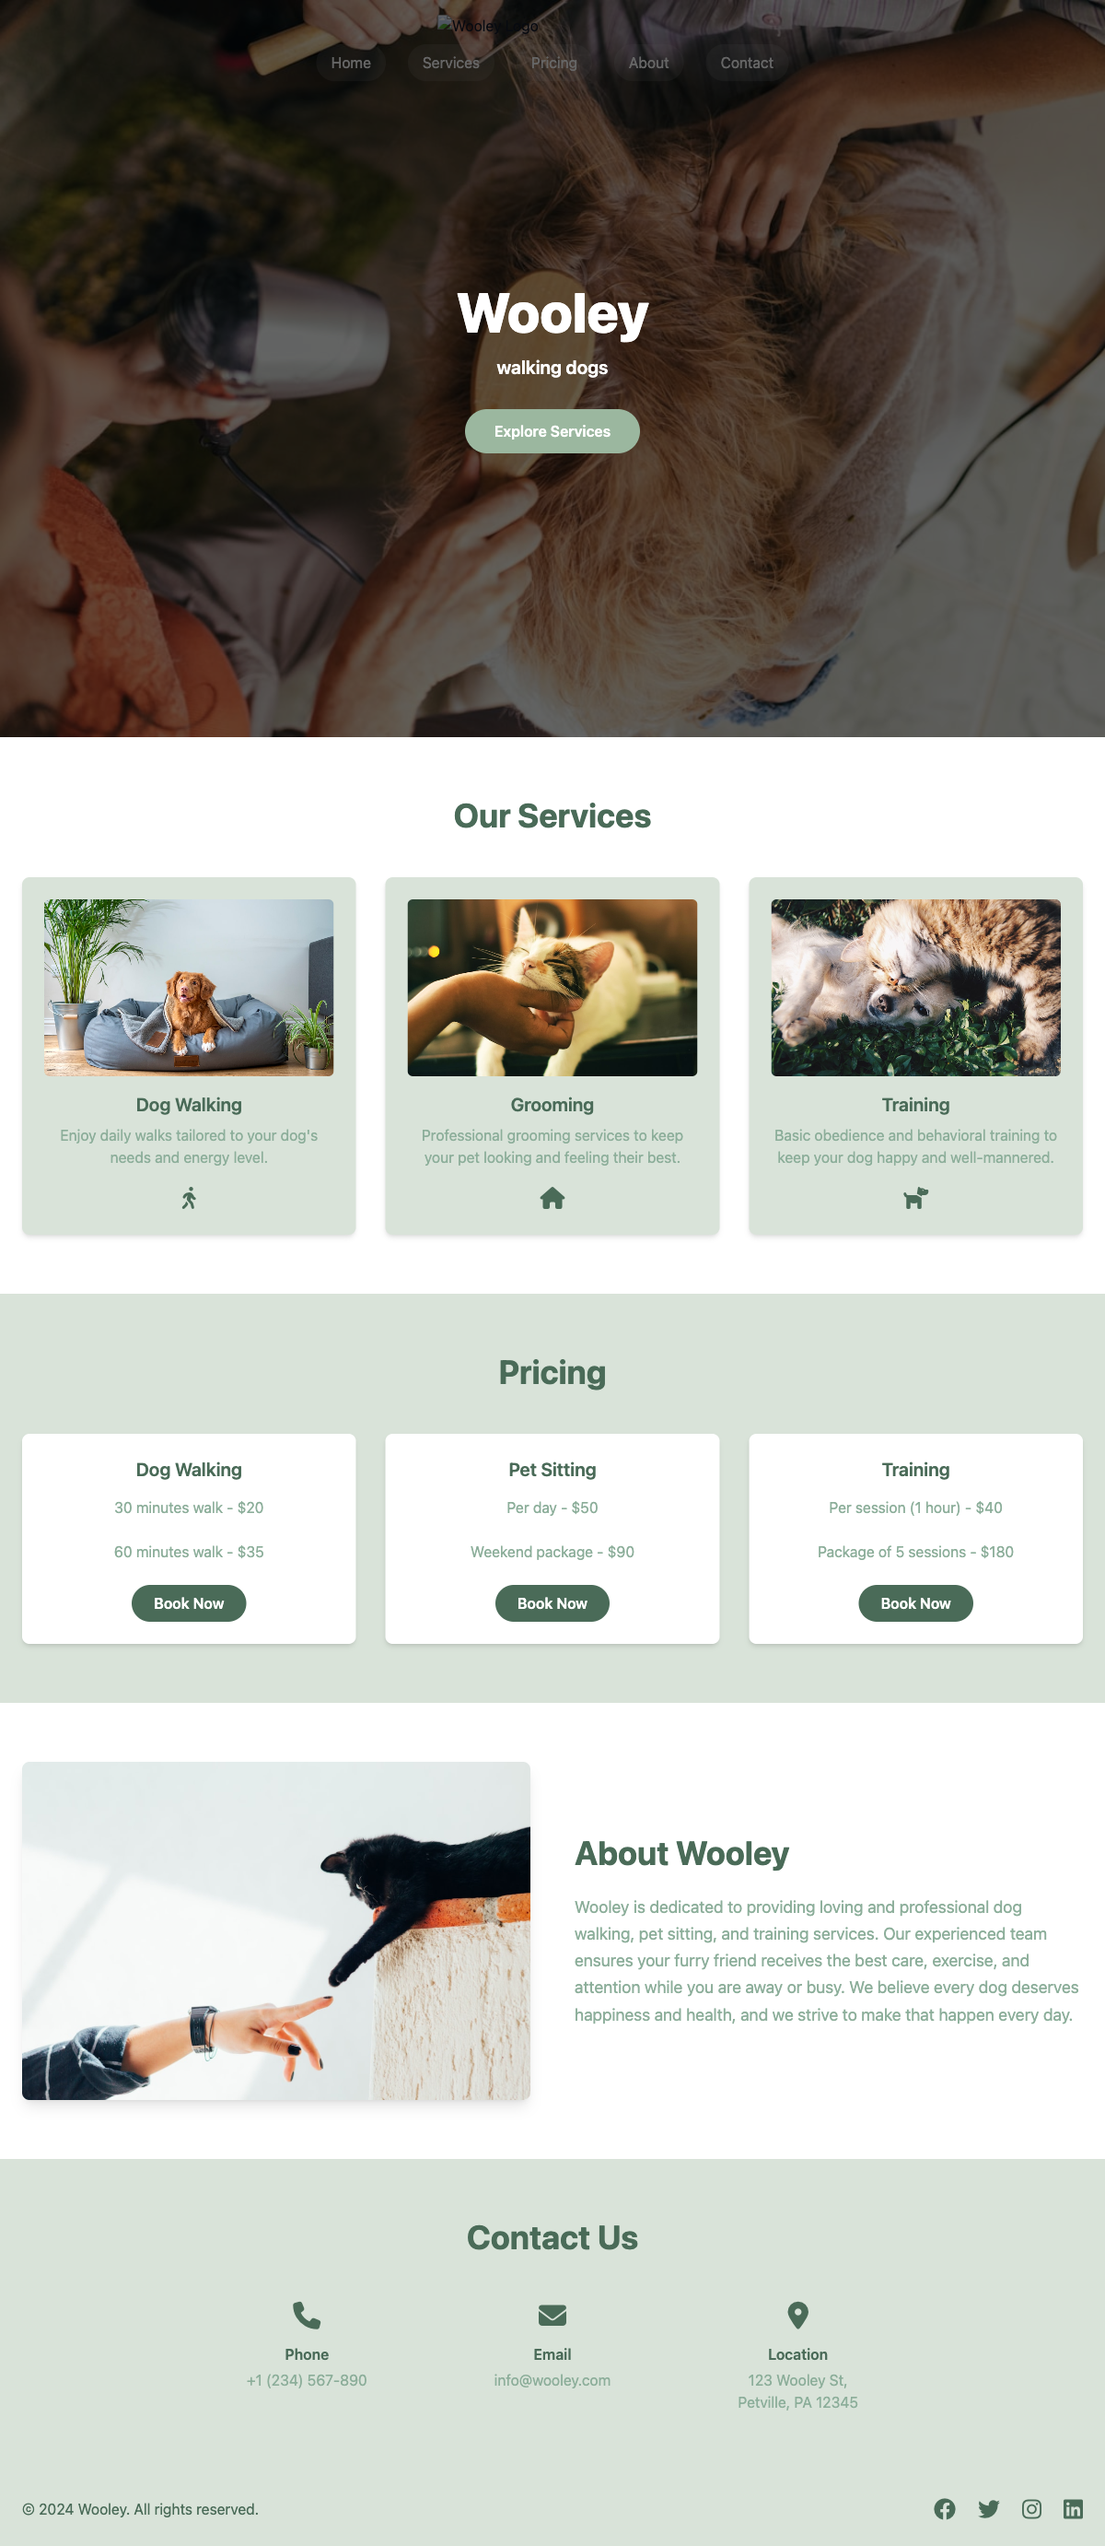
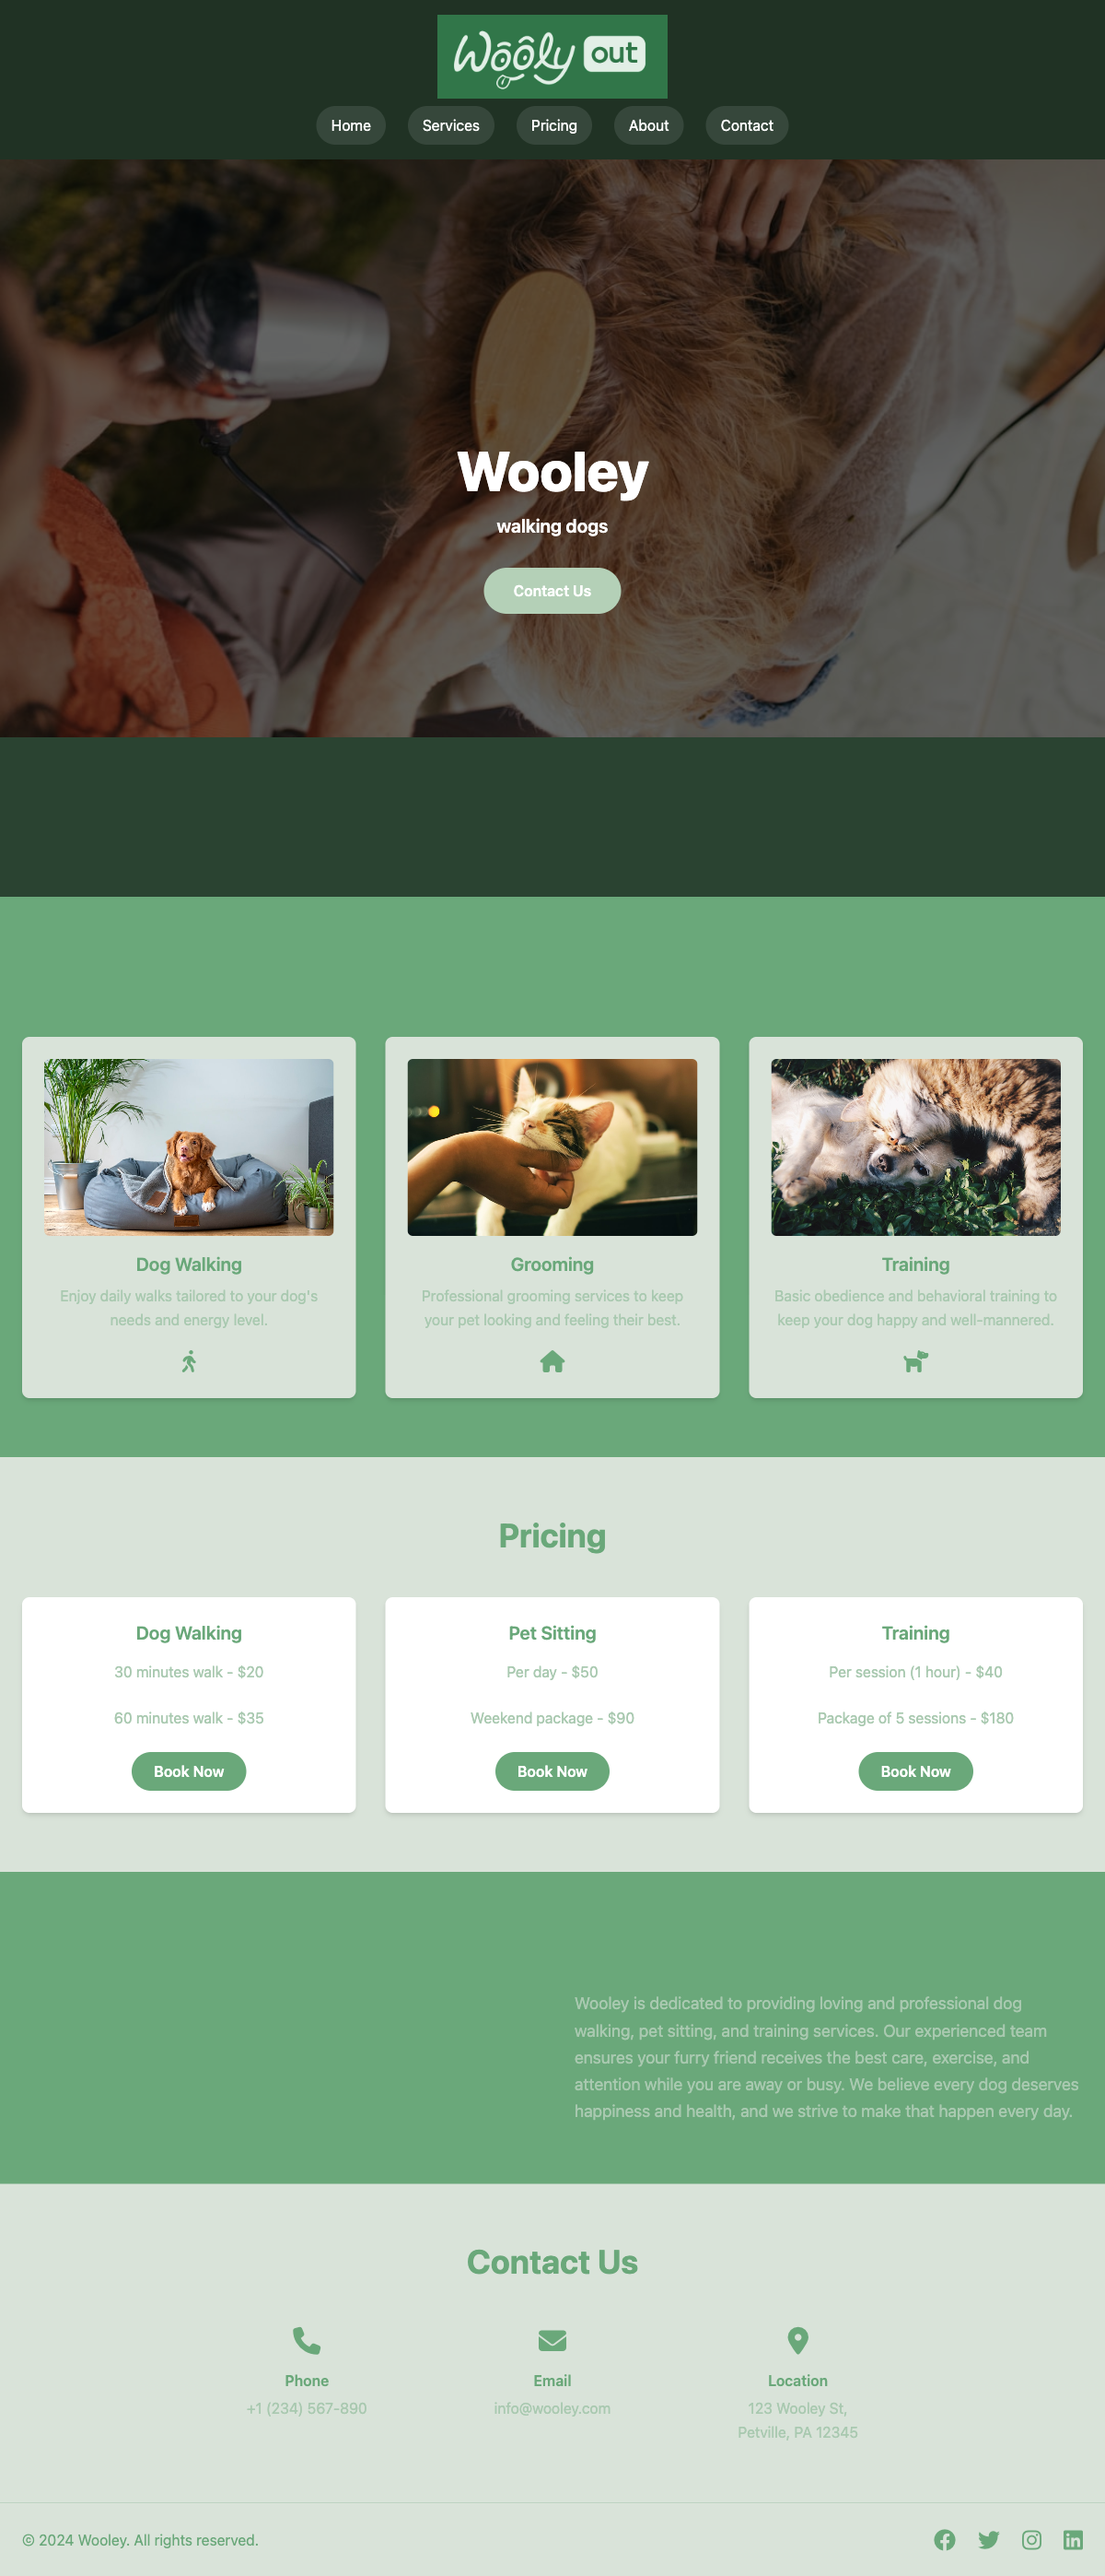
Update 2025-05-12T07:42:12.781Z

diff --git a/index.html b/index.html
@@ -6,17 +6,17 @@
 <link rel="stylesheet" href="https://cdnjs.cloudflare.com/ajax/libs/font-awesome/6.4.0/css/all.min.css">
 <style>
   :root {
-    --color-1: #4a6b58;
+    --color-1: #6aa87a;
     --color-2: #d9e3d9;
-    --color-3: #7ea18a;
-    --color-4: #8cae9a;
-    --color-5: #9bb79f;
+    --color-3: #9ccba3;
+    --color-4: #a9c9b0;
+    --color-5: #b4d0b7;
   }
   .bg-primary {
-    background-color: var(--color-1);
+    background-color: #6aa87a;
   }
   .text-primary {
-    color: var(--color-1);
+    color: #6aa87a;
   }
   .bg-secondary {
     background-color: var(--color-5);
@@ -41,11 +41,11 @@
   }
 </style>
 </head>
-<body class="bg-white text-gray-900">
+<body class="bg-primary text-white font-sans leading-relaxed">
 
-<header id="header" class="absolute top-0 left-0 w-full z-15 px-4 sm:px-6">
+<header id="header" class="relative top-0 left-0 w-full z-15 px-4 sm:px-6 bg-black bg-opacity-70">
   <div class="max-w-[250px] mx-auto pt-4">
-    <img id="header-img-1" src="https://api.telegram.org/file/bot7894873775:AAGCgkDHqBc_JQfl3ophu3EFy-B0HFyjFHo/photos/file_52.jpg" alt="Wooley Logo" class="mx-auto max-w-[250px] max-h-[100px] object-contain" loading="lazy">
+    <img id="header-img-1" src="https://api.telegram.org/file/bot7894873775:AAGCgkDHqBc_JQfl3ophu3EFy-B0HFyjFHo/photos/file_53.jpg" alt="Wooley Logo" class="mx-auto max-w-[250px] max-h-[100px] object-contain" loading="lazy">
   </div>
   <nav id="header-nav-1" class="max-w-[1200px] mx-auto mt-2 flex justify-center gap-6 pb-4">
     <a id="header-link-1" href="#hero" class="px-4 py-2 rounded-full bg-white/10 text-white hover:bg-opacity-20 transition active:bg-[var(--color-5)]" aria-current="page">Home</a>
@@ -65,7 +65,7 @@
   <p id="hero-text-2" class="relative z-10 mt-4 text-lg sm:text-xl max-w-xl font-semibold">
     walking dogs
   </p>
-  <a id="hero-link-1" href="#services" class="relative z-10 mt-8 inline-block px-8 py-3 rounded-full bg-[var(--color-5)] text-white font-semibold hover:opacity-90 transition">Explore Services</a>
+  <a id="hero-link-1" href="#services" class="relative z-10 mt-8 inline-block px-8 py-3 rounded-full bg-[var(--color-5)] text-white font-semibold hover:opacity-90 transition">Contact Us</a>
 </section>
 
 <section id="services" class="px-4 sm:px-6 py-16 max-w-[1200px] mx-auto">
